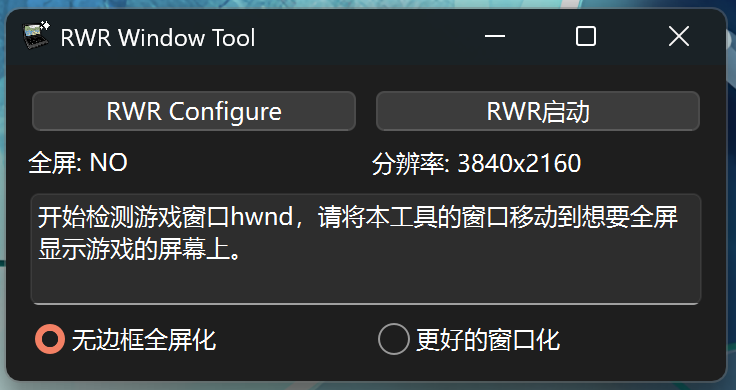
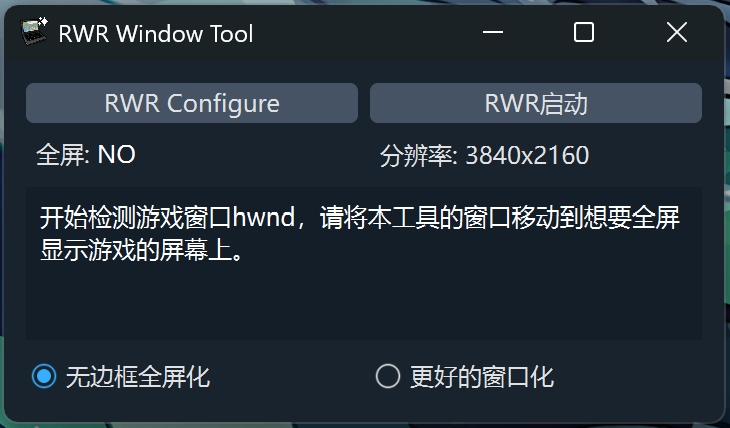
fix (theme): fix dark theme not effective issue using qdarkstyle

diff --git a/libs/rwr_window_tool.py b/libs/rwr_window_tool.py
@@ -1,6 +1,7 @@
 # -*- coding: utf-8 -*-
 import os
 import subprocess
+import qdarkstyle
 import xml.etree.ElementTree as ET
 from PySide6.QtGui import QMoveEvent
 from PySide6.QtWidgets import QApplication, QWidget
@@ -13,13 +14,13 @@ from libs.rwr_window_style import RWRWindowStyleManager
 class RWRWindowToolApp(QWidget, Ui_ToolWindow):
     def __init__(self, root_path):
         self.root_path = root_path
-        QApplication.styleHints().setColorScheme(Qt.ColorScheme.Dark)
         self.locale_name = get_user_locale_name()
         self.translator = QTranslator()
         if os.path.exists(os.path.join(self.root_path, f"locales/{self.locale_name}/{self.locale_name}.qm")):
             if self.translator.load(f"{self.locale_name}.qm", directory=os.path.join(self.root_path, f"locales/{self.locale_name}")):
                 QApplication.installTranslator(self.translator)
         super().__init__()
+        self.setStyleSheet(qdarkstyle.load_stylesheet_pyside6())
         self.setupUi(self)
         self.steam_resources = SteamResources()
         self.rwr_install_folder_path = self.steam_resources.get_game_path_from_app_id(270150)

diff --git a/libs/ui_rwr_window_tool.py b/libs/ui_rwr_window_tool.py
@@ -46,6 +46,7 @@ class Ui_ToolWindow(object):
         self.textBrowser = QTextBrowser(ToolWindow)
         self.textBrowser.setObjectName("textBrowser")
         self.textBrowser.setFocusPolicy(Qt.FocusPolicy.NoFocus)
+        self.textBrowser.setStyleSheet("background-color: #141E28")
 
         self.gridLayout.addWidget(self.textBrowser, 5, 1, 1, 2)
 

diff --git a/README.md b/README.md
@@ -31,7 +31,7 @@ In better window mode, the tool will disable the maximize and resize functions o
 ```
 git clone https://github.com/yzb2288/rwndt.git
 cd rwndt
-pip install PySide6 pywin32 vdf
+pip install PySide6 pywin32 vdf qdarkstyle
 python main.py
 ```
 
